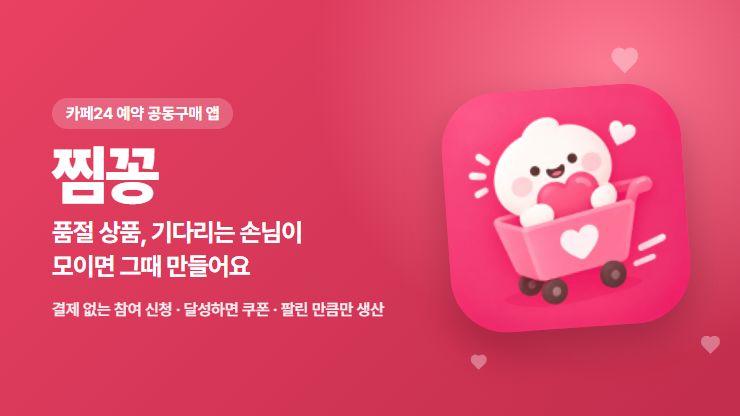
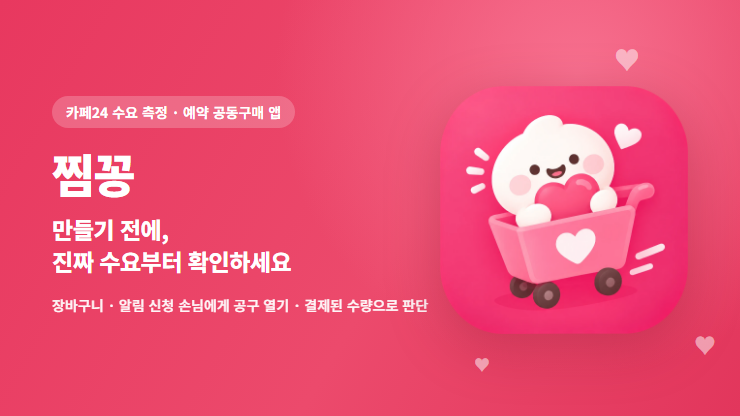
[문구] '그때 만들어요' → 재입고 전 수요 측정으로 소개 바꾸기 (#122) (#123)
- 스토어 설명 이미지: 만들기 전에, 진짜 수요부터 확인하세요
- 스토어 짧은 설명 · 헤드라인 · 마케팅 문구, 상세 설명 첫 문단
- 루트 README 첫 줄 · 문제 설명 · 비교 표 · 흐름도
- 시작 인트로 문구, DESIGN.md 소개 문구 규칙

diff --git a/jjim-gonggu/store/detail.html b/jjim-gonggu/store/detail.html
@@ -1,7 +1,7 @@
-<!-- 카페24 앱스토어 상세 설명 (2026-10-19 제출본). 그림은 카페24 편집기로 올린 주소(appservice-img)를 쓴다. 표 · 그림은 가로 1240px 이하, 그림마다 alt를 단다. -->
-<p style="text-align:center"><img src="https://appservice-img.s3.ap-northeast-2.amazonaws.com/apps/GZQElqW7AZnhRUqatDpdfF/ko/detail/description-740x416.png" alt="찜꽁: 품절 상품, 기다리는 손님이 모이면 그때 만들어요" style="width:740px;max-width:100%"></p>
-<h2>품절 상품, 기다리는 손님이 모이면 그때 만들어요</h2>
-<p>재입고를 할지 말지, 몇 개를 만들지 늘 고민되시죠. 찜꽁은 <b>손님이 먼저 모이고, 그다음에 만드는</b> 예약 공동구매 앱이에요. 결제 없이 참여 신청을 받고, 목표 수량을 채우면 신청한 손님에게만 할인 쿠폰을 드려 결제받아요. 결제된 수량만큼만 만들면 재고가 남지 않아요.</p>
+<!-- 카페24 앱스토어 상세 설명 (2026-10-19 제출본, #122에서 문구를 '수요 측정' 중심으로 바꿈. 설명 이미지는 다음 제출 때 편집기로 다시 올려 주소를 바꾼다). 그림은 카페24 편집기로 올린 주소(appservice-img)를 쓴다. 표 · 그림은 가로 1240px 이하, 그림마다 alt를 단다. -->
+<p style="text-align:center"><img src="https://appservice-img.s3.ap-northeast-2.amazonaws.com/apps/GZQElqW7AZnhRUqatDpdfF/ko/detail/description-740x416.png" alt="찜꽁: 만들기 전에, 진짜 수요부터 확인하세요" style="width:740px;max-width:100%"></p>
+<h2>만들기 전에, 진짜 수요부터 확인하세요</h2>
+<p>재입고를 할지 말지, 몇 개를 만들지 늘 고민되시죠. 장바구니 · 알림 신청 수만으로는 실제로 살 손님이 몇 명인지 알 수 없어요. 찜꽁은 <b>만들기 전에 수요부터 재는</b> 예약 공동구매 앱이에요. 결제 없이 참여 신청을 받고, 목표 수량을 채우면 신청한 손님에게만 할인 쿠폰을 드려 결제받아요. <b>결제된 수량이 진짜 수요</b>예요. 그 숫자로 만들면 재고가 남지 않고, 목표를 못 채우면 만들기 전에 수요가 부족하다는 걸 알 수 있어요.</p>
 <h3>이렇게 써요</h3>
 <ol>
 <li><b>품절 상품을 숨기지 마세요.</b> 진열함 · 판매함은 그대로 두면, 찜꽁 위젯이 품절 상품의 구매 버튼 아래에 <b>'재입고 · 공구 알림 받기'</b> 버튼을 저절로 보여 줘요. 따로 켤 버튼은 없어요.</li>

diff --git a/jjim-gonggu/app/src/app/components/seller-onboarding.tsx b/jjim-gonggu/app/src/app/components/seller-onboarding.tsx
@@ -208,7 +208,7 @@ function Intro({ onStart }: { onStart: () => void }) {
       <div className={s.floaty} aria-hidden="true">{Array.from({ length: 9 }, (_, i) => <i key={i} style={{ "--i": i } as React.CSSProperties}>♥</i>)}</div>
       <img src="/logo.svg" alt="" className={s.logo} />
       <h2 className={s.word} aria-label="찜꽁">{["찜", "꽁"].map((c, i) => <span key={c} style={{ "--i": i } as React.CSSProperties}>{c}</span>)}</h2>
-      <p className={s.slogan}>손님이 먼저 모이면, 그때 만들어요</p>
+      <p className={s.slogan}>만들기 전에, 진짜 수요부터 확인하세요</p>
       <button type="button" className={s.start} onClick={onStart} autoFocus>사용법 보기 →</button>
     </div>
   );

diff --git a/README.md b/README.md
@@ -1,12 +1,12 @@
 <div align="center">
 
-<img src="jjim-gonggu/store/description-740x416.png" width="600" alt="찜꽁 — 품절 상품, 기다리는 손님이 모이면 그때 만들어요">
+<img src="jjim-gonggu/store/description-740x416.png" width="600" alt="찜꽁 — 만들기 전에, 진짜 수요부터 확인하세요">
 
 # 찜꽁
 
-**품절 상품을 기다리는 손님이 모이면, 그때 만들어 파는 카페24 예약 공동구매 앱**
+**재입고 · 재생산 전에, 장바구니 · 알림 신청에 쌓인 수요를 결제된 숫자로 재 보는 카페24 예약 공동구매 앱**
 
-결제 없이 신청받고 → 목표 수량을 채우면 쿠폰으로 결제받고 → **팔린 만큼만** 만들어요.
+결제 없이 신청받고 → 목표 수량을 채우면 쿠폰으로 결제받고 → **결제된 수량**을 보고 만들지 말지, 몇 개 만들지 정해요.
 
 [🎬 시연 영상 (3분)](https://raw.githubusercontent.com/bobo33772-blip/HOP/pr-images/pr-105/demo.mp4) · [바로 실행해 보기](#-바로-실행해-보기) · [폴더 안내](#-폴더-안내)
 
@@ -24,12 +24,15 @@
 - 🛒 장바구니에 담아 두고 기다리는 손님
 - 🔔 품절 상품에 "재입고되면 알려 주세요"를 누른 손님
 
-찜꽁은 이 신호를 모아 **"몇 명이 모이면 공구가로 다시 만들게요"**라고 묻고, **실제로 결제된 수량**을 보고 생산을 정하게 해 줘요.
+하지만 담기 · 알림 신청은 **관심**일 뿐이라, 이 숫자만 믿고 만들기엔 실제로 몇 명이 살지 알 수 없어요.
+
+찜꽁은 이 손님들에게 **"몇 명이 모이면 공구가로 다시 만들게요"**라고 물어, 관심이 **진짜 수요(결제)**로 이어지는지 재 줘요. 판매자는 만들기 **전에** 그 숫자를 보고 정해요.
 
 | 지금까지 | 찜꽁을 쓰면 |
 |---|---|
 | 감으로 재생산 수량을 정해요 | 결제된 수량을 보고 정해요 |
-| 다시 만들었는데 안 팔리면 재고 | 목표를 못 채우면 만들지 않아요 (손님도 돈 낸 적 없음) |
+| 장바구니 · 알림 신청 수는 "관심"일 뿐 | 신청 → 결제까지 이어진 "진짜 수요"를 숫자로 봐요 |
+| 다시 만들었는데 안 팔리면 재고 | 목표를 못 채우면 만들기 전에 수요가 부족한 걸 알아요 (손님도 돈 낸 적 없음) |
 | 재입고 알림은 "들어왔어요" 한 번으로 끝 | 기다리던 손님이 공구로 모이고, 모일수록 할인 |
 
 ## 🔄 어떻게 돌아가나요?
@@ -40,8 +43,8 @@ flowchart LR
     B --> C["✋ 손님이 참여 신청<br/>(지금은 결제 없음)"]
     C --> D{"⏰ 마감 때<br/>목표 수량 채웠나?"}
     D -- "채움" --> E["🎟 신청자에게 할인 쿠폰<br/>기한 안에 결제"]
-    D -- "못 채움" --> F["🙅 진행 안 함<br/>안내 문자만"]
-    E --> G["📦 결제된 수량만큼 생산<br/>매출 · 판정 리포트"]
+    D -- "못 채움" --> F["🙅 진행 안 함<br/>수요 부족 확인 · 안내 문자만"]
+    E --> G["📊 진짜 수요 확인<br/>결제된 수량으로 생산 결정"]
 ```
 
 1. **기다리는 손님 찾기** — 상품마다 장바구니 · 공구 알림 신청이 몇 명인지 보여 줘요.
@@ -49,7 +52,7 @@ flowchart LR
 3. **결제 없이 신청** — 손님은 상품 페이지의 찜꽁 위젯에서 "참여 신청"만 눌러요.
 4. **마감 판정** — 목표를 채우면 신청자에게만 1회용 할인 쿠폰을, 못 채우면 안내 문자만 보내요.
 5. **쿠폰으로 결제** — 손님은 평소처럼 쇼핑몰에서 결제하고, 쿠폰이 공구가를 맞춰 줘요.
-6. **팔린 만큼 생산** — 결제가 끝난 수량을 확정해, 판매자가 그 숫자로 생산을 정해요.
+6. **수요 확인 → 생산 판단** — 결제가 끝난 수량이 진짜 수요예요. 판매자는 이 숫자로 만들지 말지, 몇 개 만들지 정해요.
 
 ## 👥 누가 어떻게 쓰나요?
 

diff --git a/jjim-gonggu/store/README.md b/jjim-gonggu/store/README.md
@@ -1,15 +1,15 @@
 # 찜꽁 · 카페24 앱스토어 심사 제출 자료
 
-개발자센터 → 앱 → 찜꽁 → **STEP 03 상품 정보**에 넣은 내용이에요(2026-10-19 제출, 심사 중). 고치면 이 파일도 같이 고쳐요.
+개발자센터 → 앱 → 찜꽁 → **STEP 03 상품 정보**에 넣은 내용이에요(2026-10-19 제출 뒤 반려: 사업자 계정 필요). 문구 · 설명 이미지는 #122에서 '수요 측정' 중심으로 바꿨고, 다음 제출 때 이 내용으로 다시 올려요. 고치면 이 파일도 같이 고쳐요.
 
 ## 기본 정보
 
 | 항목 | 값 |
 |---|---|
 | 상품명 | 찜꽁 |
-| 짧은 설명 (200바이트 이하) | 품절 상품을 기다리는 손님이 모이면 공구를 열어요. 결제 없이 신청받고, 목표를 채우면 쿠폰으로 결제받아 팔린 만큼만 만드세요. |
-| 헤드라인 (2줄, 각 100바이트 이하) | 품절 상품, 기다리는 손님이 모이면 그때 만들어요 / 결제 없이 신청받고, 목표를 채우면 쿠폰으로 결제받아요 |
-| 마케팅 문구 (3개 이상) | 품절 상품에 재입고 · 공구 알림 버튼이 저절로 생겨요 / 알림 신청 · 장바구니 고객에게 공구 초대 문자를 보내요 / 결제된 수량만큼만 생산해 재고 걱정 없이 |
+| 짧은 설명 (200바이트 이하) | 재입고 전에 수요부터 재 보세요. 장바구니 · 알림 신청 고객에게 결제 없이 신청받고, 목표를 채우면 쿠폰으로 결제받아 진짜 수요를 확인해요. |
+| 헤드라인 (2줄, 각 100바이트 이하) | 만들기 전에, 진짜 수요부터 확인하세요 / 결제 없이 신청받고, 결제된 수량으로 재입고를 판단해요 |
+| 마케팅 문구 (3개 이상) | 품절 상품에 재입고 · 공구 알림 버튼이 저절로 생겨요 / 알림 신청 · 장바구니 고객에게 공구 초대 문자를 보내요 / 신청이 아닌 결제된 수량으로 재입고 · 생산을 판단해요 |
 | 필요 조건 | 카페24 SMS 서비스(충전)와 문자 발신번호 등록이 필요해요. |
 | 언어 · 요금 | 한국어 · 무료 |
 | 키워드 | 공동구매; 예약구매; 재입고; 품절; 쿠폰; 수요예측 |
